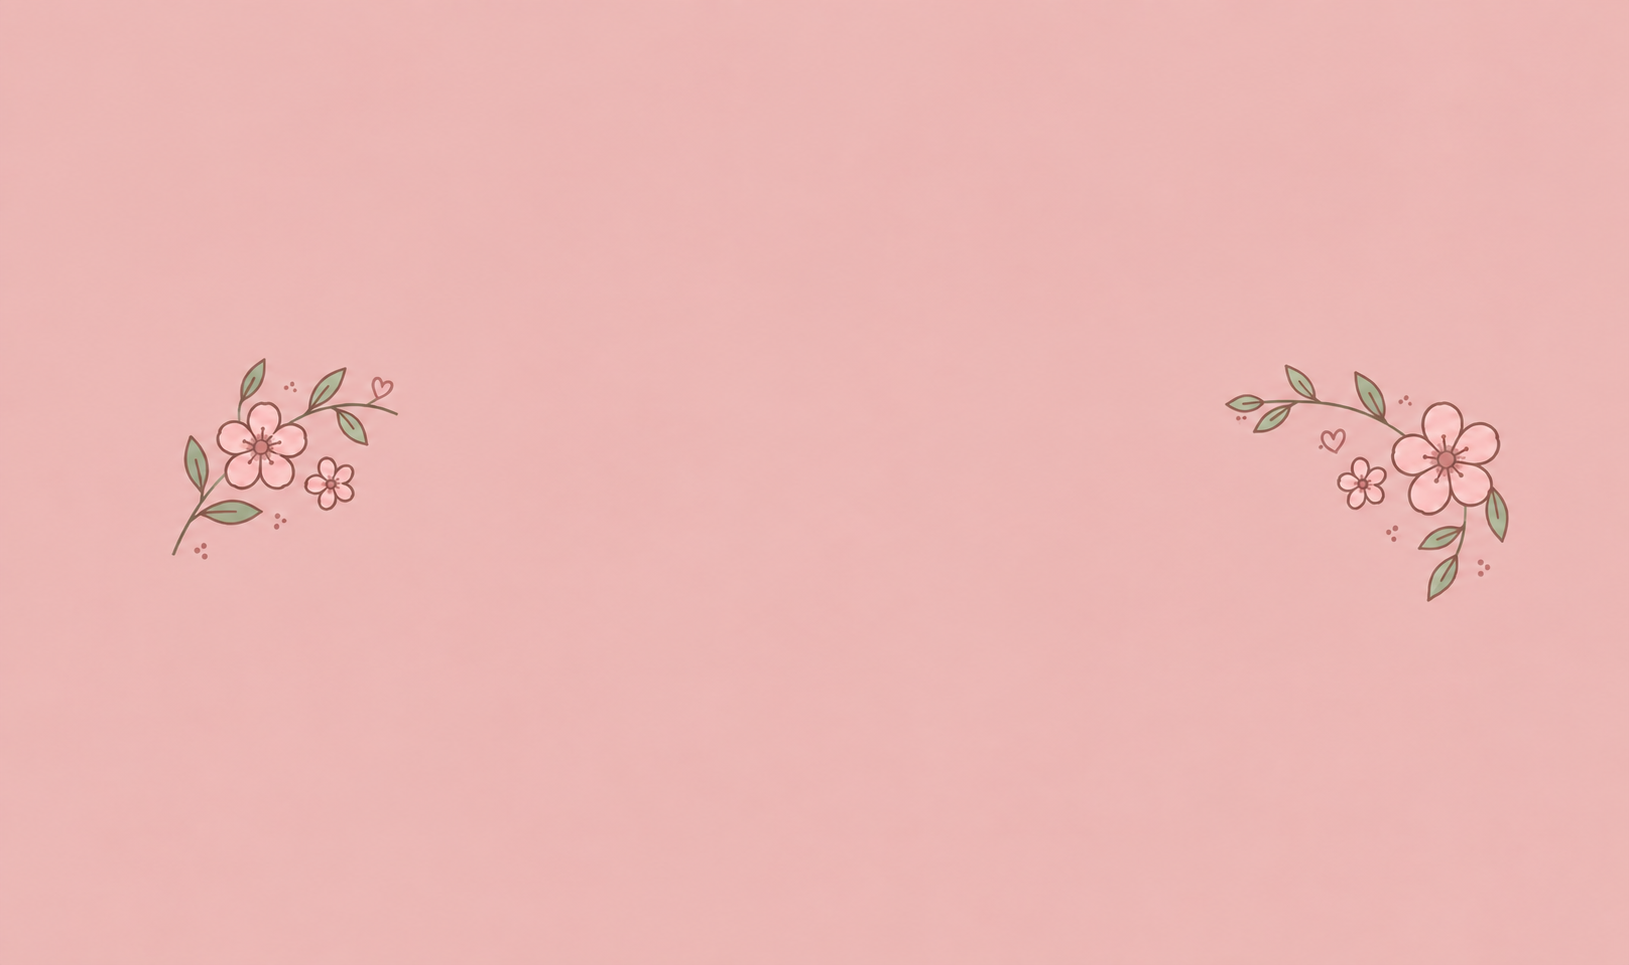
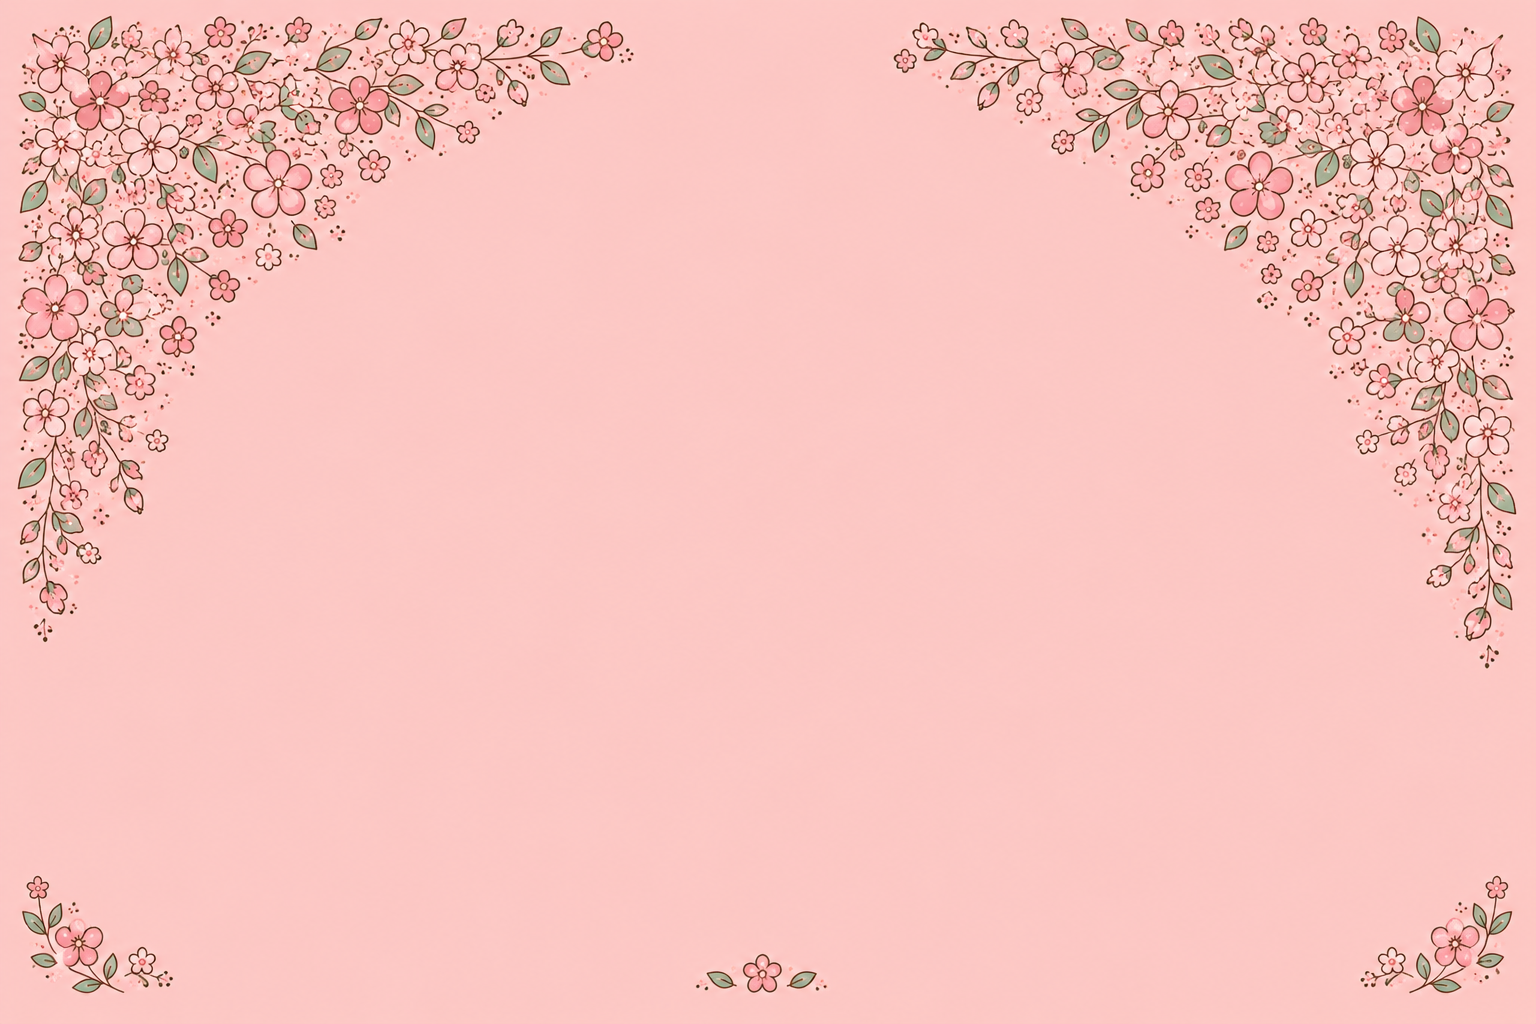
Replace necklace category image, uncropped category photos

diff --git a/scripts/update-category-images.js b/scripts/update-category-images.js
@@ -1,0 +1,20 @@
+import { prisma } from '../src/lib/prisma.js'
+
+const updates = [
+  { slug: 'necklace', imgUrl: '/images/categories/necklace.jpg' },
+  { slug: 'bracelets', imgUrl: '/images/categories/bracelets.jpg' },
+  { slug: 'earrings', imgUrl: '/images/categories/earrings.jpg' },
+  { slug: 'rings', imgUrl: '/images/categories/rings.jpg' },
+  { slug: 'armcuffs', imgUrl: '/images/categories/armcuffs.jpg' },
+  { slug: 'charms', imgUrl: '/images/categories/charms.jpg' },
+]
+
+async function main() {
+  for (const { slug, imgUrl } of updates) {
+    await prisma.category.update({ where: { slug }, data: { imgUrl } })
+    console.log(`Updated ${slug}`)
+  }
+  console.log('Done')
+}
+
+main().finally(() => prisma.$disconnect())

diff --git a/src/app/collections/page.js b/src/app/collections/page.js
@@ -74,7 +74,7 @@ export default async function CollectionsPage() {
                   style={{
                     width: '100%',
                     height: '100%',
-                    objectFit: 'cover',
+                    objectFit: 'contain',
                     display: 'block',
                   }}
                 />
